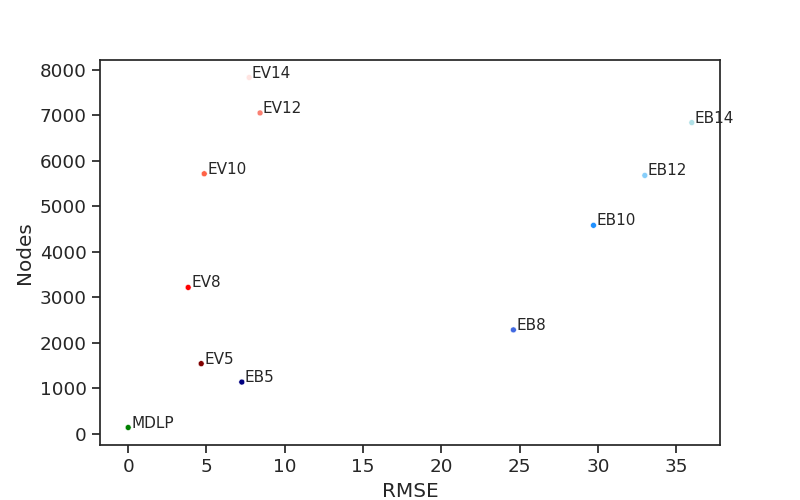
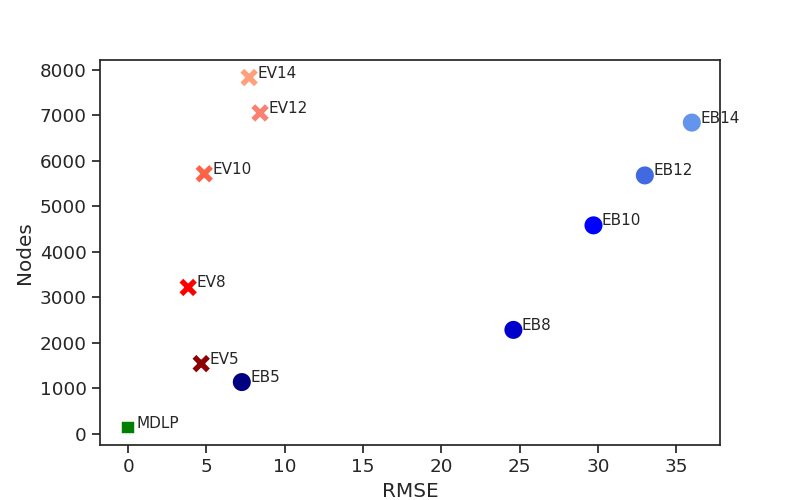
new visuals paretofront

diff --git a/scripts/draw_pareto_front.py b/scripts/draw_pareto_front.py
@@ -20,12 +20,13 @@ palettes={'EB5': 'navy',
         'EB10': 'blue',
         'EB12': 'royalblue',
         'EB14': 'cornflowerblue',
-        'EV5': 'maroon', 
+        'EV5': 'darkred', 
         'EV8': 'red',
         'EV10': 'tomato',
         'EV12': 'salmon',
         'EV14': 'lightsalmon',
         'MDLP': 'green'}
+
 
 class Pareto:
     """Creating Pareto-front"""
@@ -101,23 +102,19 @@ class Pareto:
                     drop_indices.append(index)
     
         self.non_dom_sol = self.non_dom_sol.drop(drop_indices)
-        #index_node = self.non_dom_sol.idxmin(numeric_only=True)['Nodes']
-        #error_node = self.non_dom_sol.idxmin(numeric_only=True)[str(error)]
-        #self.non_dom_sol.append()
         
     def plot_pareto(self, error):
         "Plot data"
         sns.set(style='ticks', context='notebook', font_scale=1.2)
         fig, ax = plt.subplots()
-        sns.scatterplot(y='Nodes', x=str(error), data=self.error_frame, size = 8, legend=False, hue='Disc_method', ax=ax,
-        palette=palettes) #change when dd size is available
+        sns.scatterplot(y='Nodes', x=str(error), data=self.error_frame, legend=False, hue='Disc_method', ax=ax,
+        palette=palettes, style="Method", size='load_time', sizes=(199,200)) #change when dd size is available
         axe = sns.lineplot(data=self.non_dom_sol, x=str(error), y='Nodes',estimator='max', color='gainsboro')
         axe.lines[0].set_linestyle("--")
         print(self.error_frame)
         for i in range(self.error_frame.shape[0]):
-            plt.text(y=self.error_frame['Nodes'][i],x=self.error_frame[str(error)][i]+(self.error_frame[str(error)].max()*0.005),s=self.error_frame.Disc_method[i], fontsize=11) #change when dd size is available
+            plt.text(y=self.error_frame['Nodes'][i],x=self.error_frame[str(error)][i]+(self.error_frame[str(error)].max()*0.015),s=self.error_frame.Disc_method[i], fontsize=11) #change when dd size is available
 
-        #plt.title("Paretofront with Weighted Root Mean Squared Error (WRMSE) vs node count of the BDD")
         save_path = os.path.join(os.getcwd(), "plots/paretofront_"+args.distribution+"_"+error+".png")
         plt.savefig(save_path)
 
